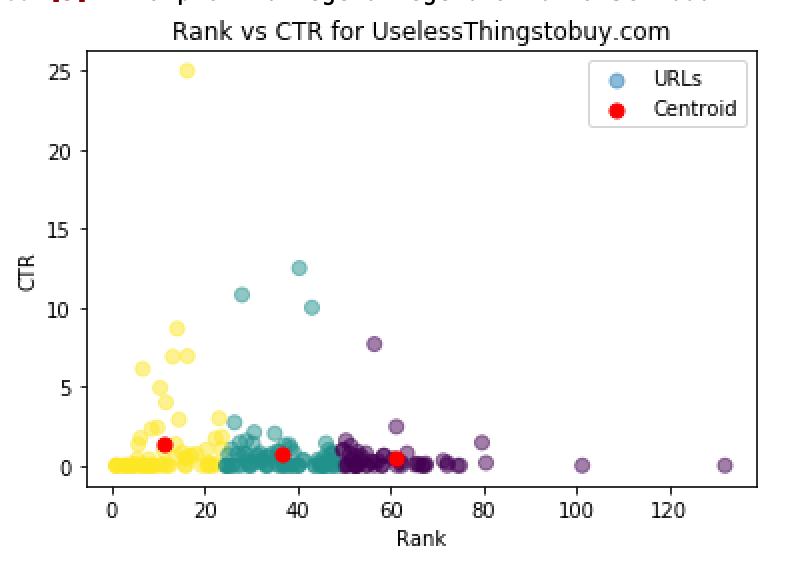
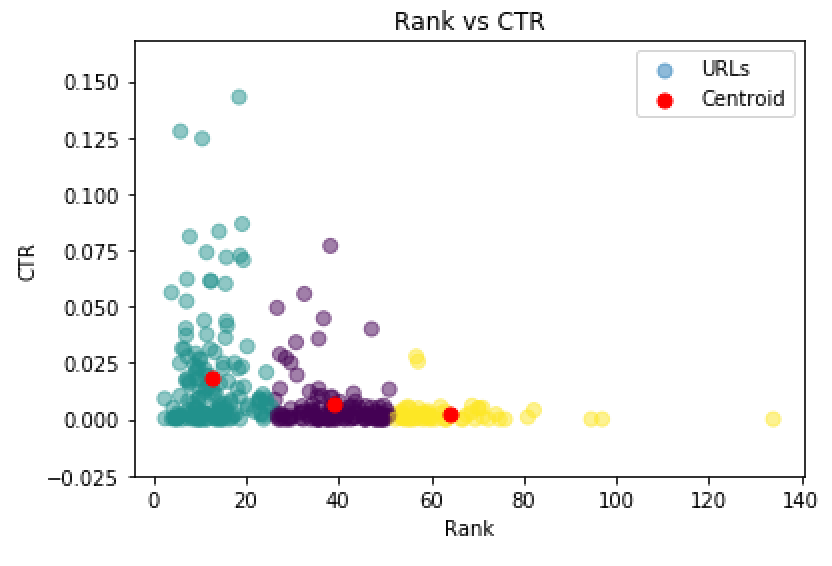
messing around

diff --git a/Kmeans.py b/Kmeans.py
@@ -16,9 +16,15 @@ from sklearn.cluster import KMeans
 #Opening xlsx
 df = pd.read_excel (r'www.uselessthingstobuy.com.xlsx')
 
+#optional
+#df['Position'] = round(df['Position'])
+
+df = df.dropna()
 
 #### CTR Vs Title Length ####
 X2 = pd.DataFrame(df, columns = ['Title Length','CTR'])
+
+X2 =X2.dropna()
 
 #Finding the right number of clusters for Kmeans
 
@@ -40,7 +46,7 @@ print(centroids)
 
 #Plotting
 
-plt.title('Title Lenght vs CTR for UberEats London')
+plt.title('Title Lenght vs CTR')
 plt.scatter(df['Title Length'], df['CTR'], c= kmeans.labels_.astype(float), s=50, alpha=0.5,label = 'URLs')
 plt.scatter(centroids[:, 0], centroids[:, 1], c='red', s=50,label='Centroid')
 plt.xlabel('Title Length')
@@ -75,7 +81,7 @@ print(centroids)
 
 #Plotting
 
-plt.title('Rank vs CTR for UberEats London')
+plt.title('Rank vs CTR')
 plt.scatter(df['Position'], df['CTR'], c= kmeans.labels_.astype(float), s=50, alpha=0.5,label = 'URLs')
 plt.scatter(centroids[:, 0], centroids[:, 1], c='red', s=50,label='Centroid')
 plt.ylabel('CTR')
@@ -108,11 +114,57 @@ print(centroids)
 
 #Plotting
 
-plt.title('Impressions vs CTR for UberEats London')
+plt.title('Impressions vs CTR')
 plt.scatter(df['Impressions'], df['CTR'], c= kmeans.labels_.astype(float), s=50, alpha=0.5,label = 'URLs')
 plt.scatter(centroids[:, 0], centroids[:, 1], c='red', s=50,label='Centroid')
 plt.ylabel('CTR')
 plt.xlabel('Impressions')
 plt.legend()
 
+
+
+
+#### Clicks VS Impressions ####
+
+X5 = pd.DataFrame(df, columns = ['Clicks','CTR'])
+
+
+#Finding the right number of clusters for Kmeans
+wcss = []
+for i in range(1, 11):
+    kmeans = KMeans(n_clusters = i, init = 'k-means++', random_state = 42)
+    kmeans.fit(X5)
+    wcss.append(kmeans.inertia_)
+plt.plot(range(1, 11), wcss)
+plt.title('The Elbow Method')
+plt.xlabel('Number of clusters')
+plt.ylabel('WCSS')
+plt.show()
+
+#Kmeans
+kmeans = KMeans(n_clusters=3).fit(X5)
+centroids = kmeans.cluster_centers_
+print(centroids)
+
+#Plotting
+
+plt.title('Clicks vs CTR')
+plt.scatter(df['Clicks'], df['CTR'], c= kmeans.labels_.astype(float), s=50, alpha=0.5,label = 'URLs')
+plt.scatter(centroids[:, 0], centroids[:, 1], c='red', s=50,label='Centroid')
+plt.ylabel('CTR')
+plt.xlabel('Clicks')
+plt.legend()
+
+
+
+#Correlation plots
+import matplotlib.pyplot as plt
+import seaborn as sns
+
+
+palette = sns.color_palette("bright")
+
+#correlations
+sns.pairplot(df)
+plt.show()
 
